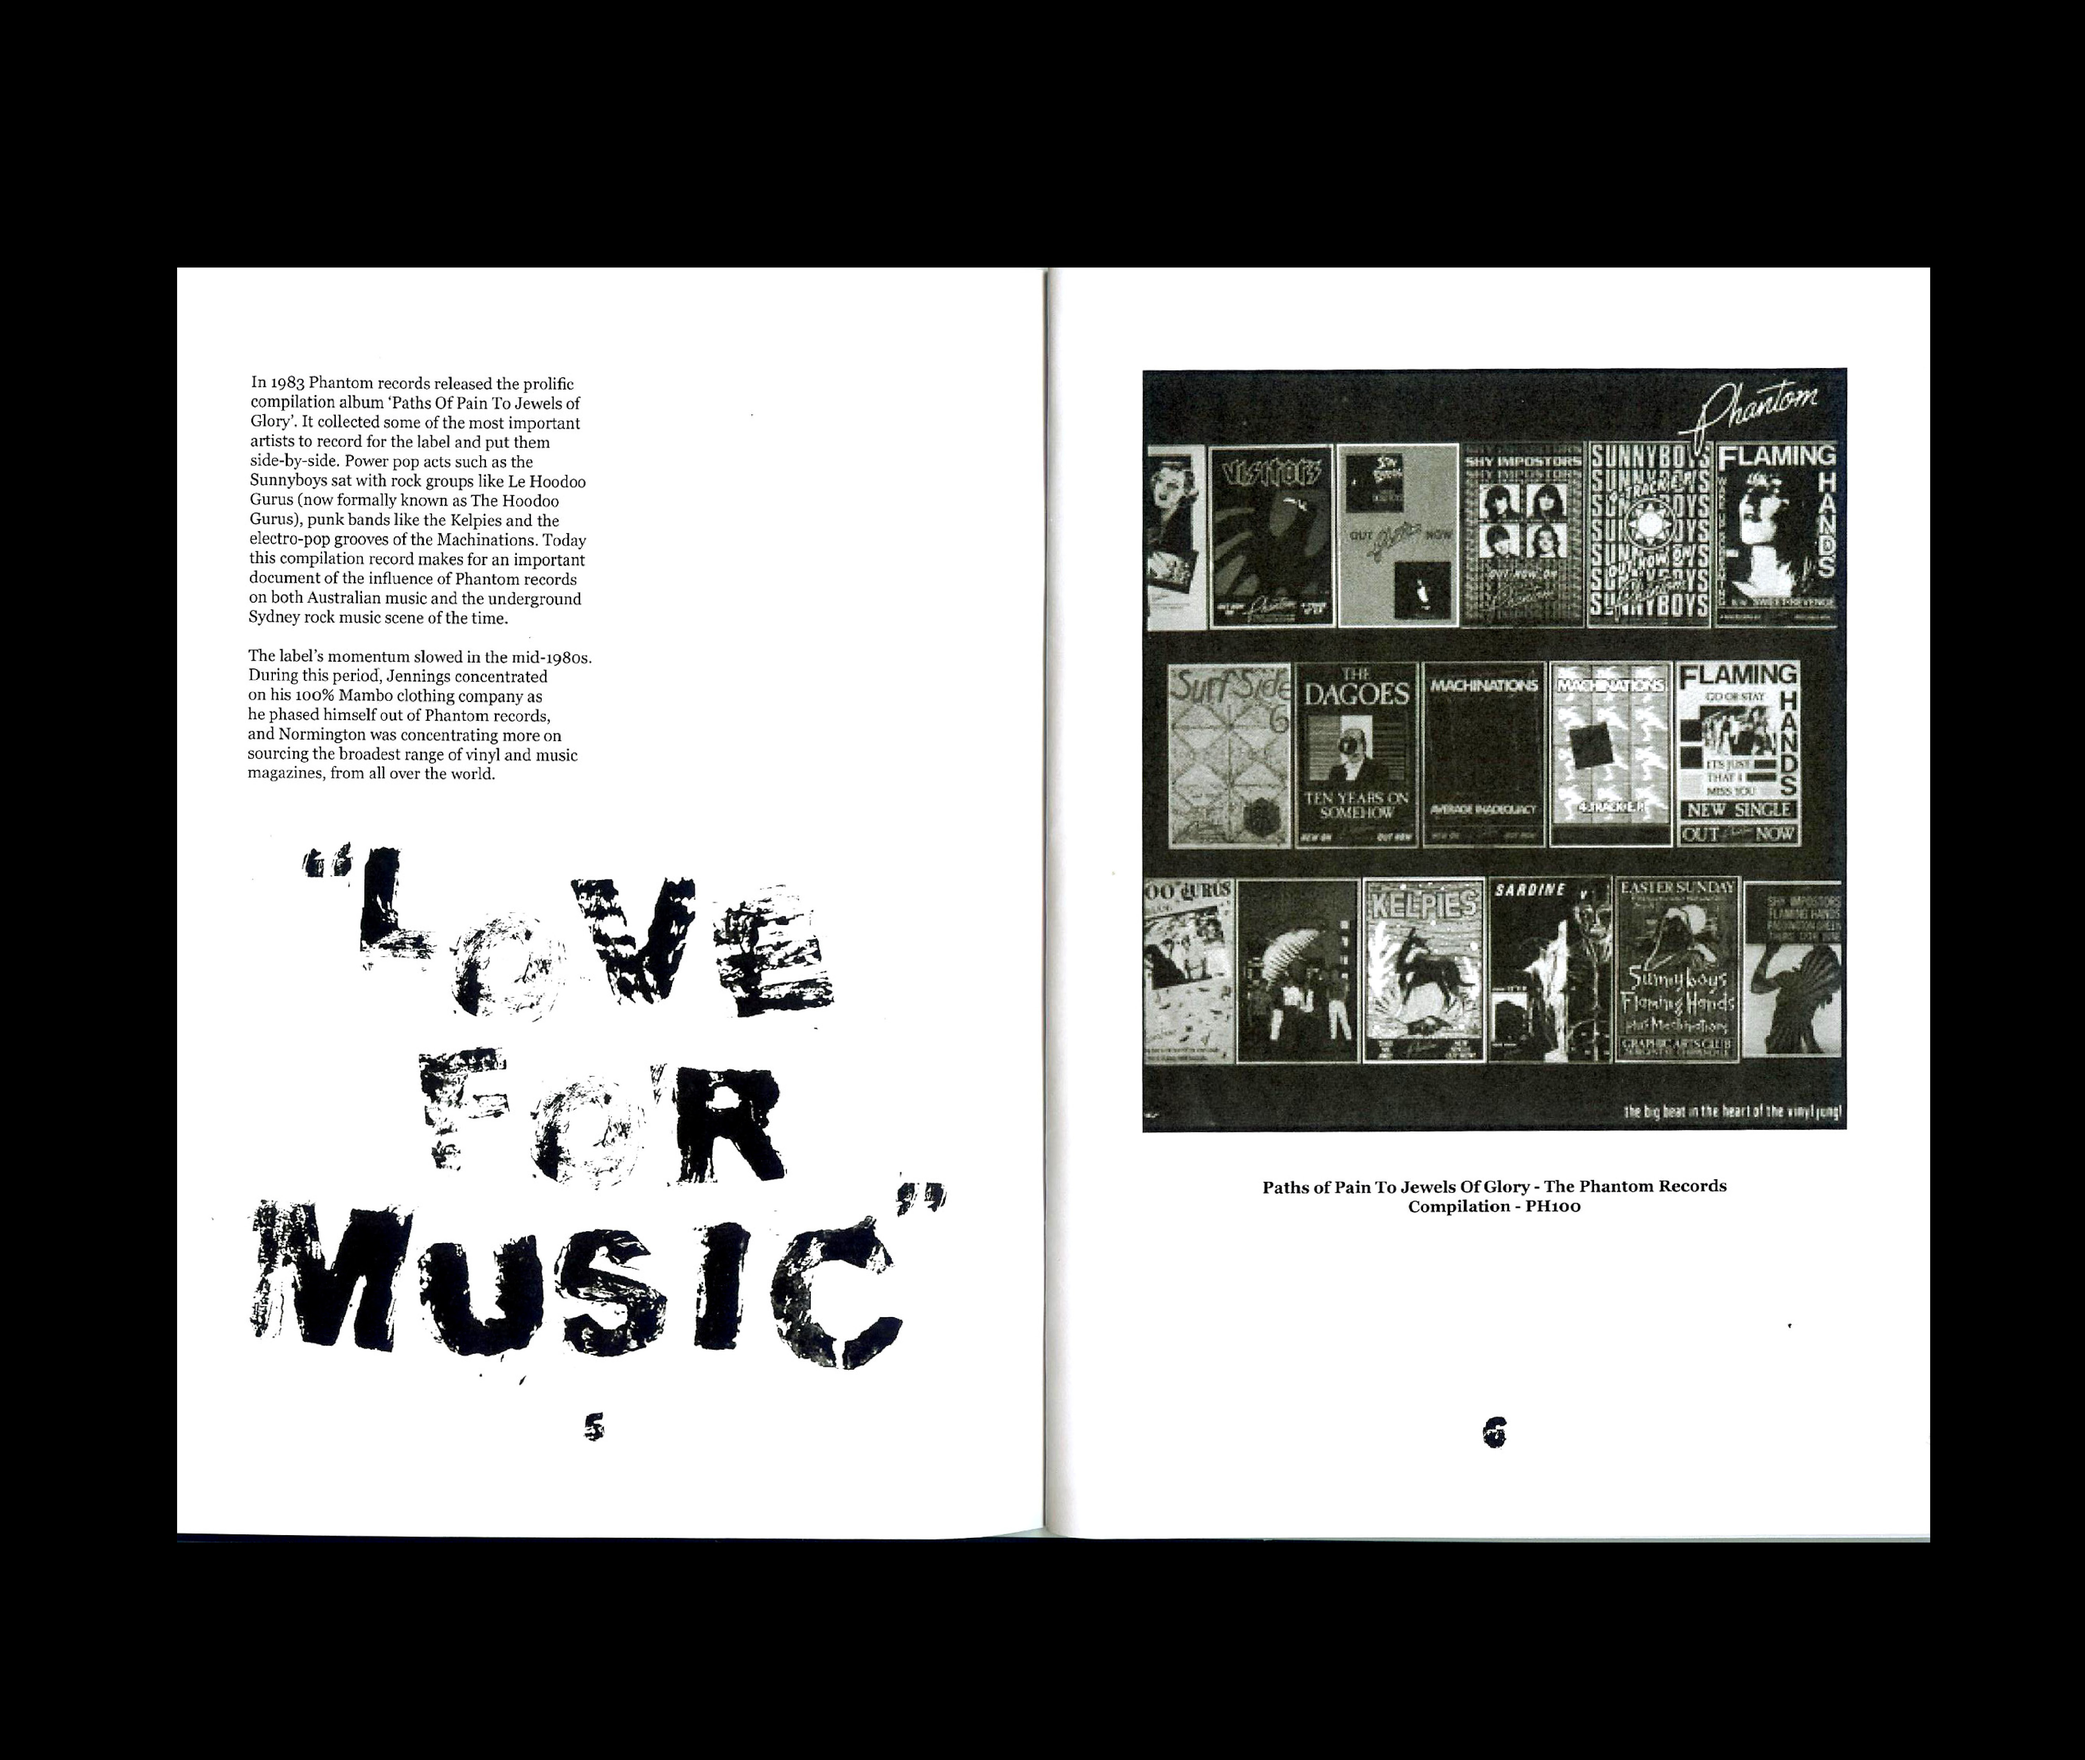
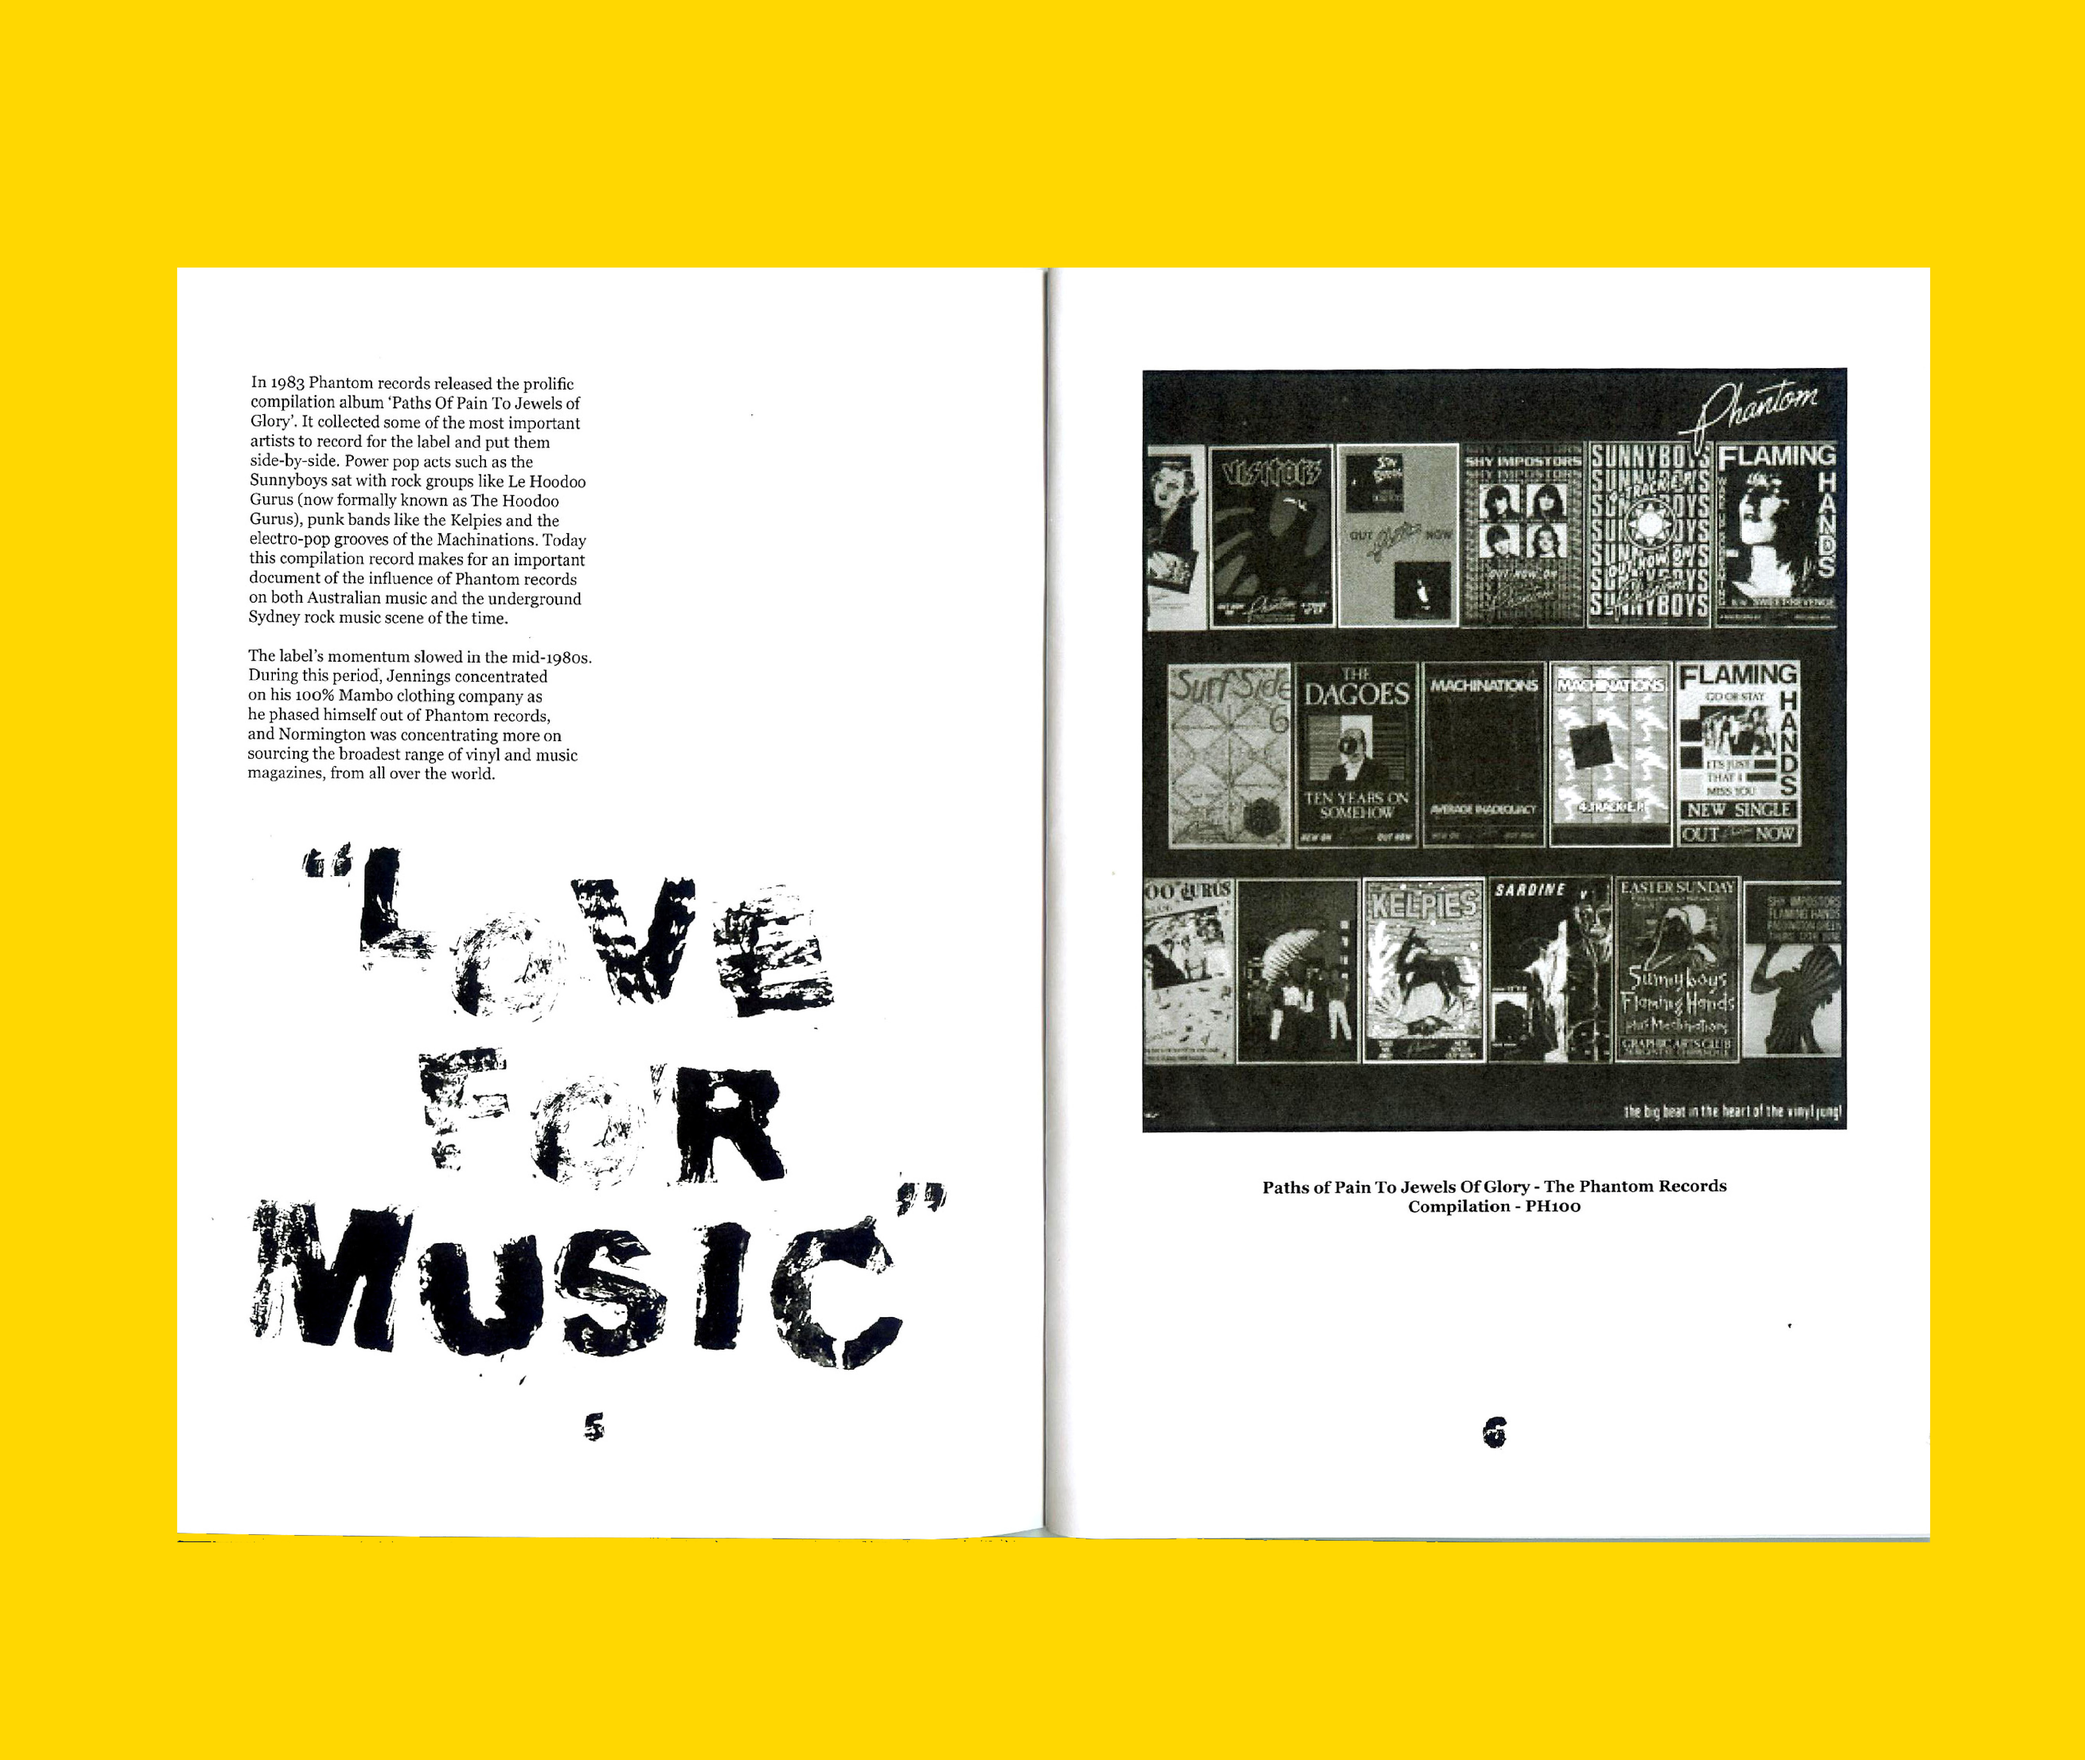
Update index.html

diff --git a/index.html b/index.html
@@ -27,7 +27,7 @@ LIBERATORE <br>
 </div>
 
 <div class = "body">
-Welcome to my design folio, my name is Michael! I am a Monash Communication Design and Business (Marketing) student. I am passionate about print media, publication design, branding design and typography. My portfolio will provide you with an insight into my design skills, thinking and interests.
+Welcome to my design folio, my name is Michael! I am a Monash Communication Design and Business (Marketing) student. I am passionate about print media, publication design, branding and typography. My portfolio will provide you with an insight into my design skills, thinking and interests.
 </div>
 
 <div class = "WORK">
@@ -170,27 +170,6 @@ SPACE ODYSSEY BOOK COVERS <br>
 </div>
 
 <div class = "item Publications">
-<img src="assets/images/figure424.jpg">
-'THE BIG BEAT IN THE HEART OF THE VINYL JUNGLE' <br>
-
-<br> *Supervised by Tristan Ceddia and Rick Milovanovic* <br>
-
-<br> I envisage my outcomes being sold or displayed with some of Phantom Records' potential re-releases in record stores around Australia. I additionally envisage my outcomes being displayed or even sold individually in record stores across Australia. My outcomes will promote the nearly forgotten record label Phantom Records and the music that they signed and supported. <br>
-
-<br>
-</div>
-
-<div class = "item Print">
-<img src="assets/images/figure423.jpg">
-'THE BIG BEAT IN THE HEART OF THE VINYL JUNGLE' <br>
-
-<br> *Supervised by Tristan Ceddia and Rick Milovanovic* <br>
-<br> This project is about unearthing the nearly forgotten Australian record label Phantom Records. I conducted research and some interviews unearthing the record label and its history about its ‘Classic Period’. This period was when the Phantom record store developed into a prolific independent record label. <br>
-
-<br>
-</div>
-
-<div class = "item Publications">
 <img src="assets/images/figure426.jpg">
 'THE BIG BEAT IN THE HEART OF THE VINYL JUNGLE' <br>
 
@@ -202,12 +181,12 @@ SPACE ODYSSEY BOOK COVERS <br>
 </div>
 
 <div class = "item Publications">
-<img src="assets/images/figure425.jpg">
+<img src="assets/images/figure424.jpg">
 'THE BIG BEAT IN THE HEART OF THE VINYL JUNGLE' <br>
 
 <br> *Supervised by Tristan Ceddia and Rick Milovanovic* <br>
 
-<br> I produced all of my experimental typography with black paint and cut out raised letters. I coupled the bold, 'rough around the edges' typography with well set body text in InDesign. As my content was all about underground music and an independent record label, I wanted to pay a homage to its 'Classic Period'. This influenced me to produce my own tangible type-setting process away from my laptop. I took the role of a graphic designer, similar to how graphic design was before the digital era. <br>
+<br> My publication is concerned with unearthing the nearly forgotten record label 'Phantom Records' and the music that they signed and supported. I undertook this project by conducting some preliminary research, conducting some interviews, and type setting my own experimental typography used cut out raised letters and black paint to create a DIY aesthetic to the publication. Reinforcing the aesthetic of the record label. I coupled the bold, 'rough around the edges' typography with well set body text in InDesign. As my content was all about underground music and an independent record label, I wanted to pay a homage to its 'Classic Period'. This influenced me to produce my own tangible type-setting process away from my laptop. I took the role of a graphic designer, similar to how graphic design was before the digital era. <br>
 
 <br>
 </div>
@@ -250,20 +229,20 @@ MAGAZINE FEATURE <br>
 <br>
 </div>
 
-<div class = "item Personal">
-<img src="assets/images/figure43.png">
-LOGO REDESIGN <br>
+<div class = "item Print">
+<img src="assets/images/figure35.jpg">
+DFPR stickers <br>
 
-<br> I redesigned a logo for a small indepedent Melbourne record label called 'Dead Family Pets Records'. The client asked for a clearer and more legibile redesigned logo. I used their existing typography and dog graphic. I revamped the composition and legibility of the logo, while maintaining a strong DIY aesthetic for their social media and for print purposes. This freelance project was a really exciting opportunity for me as a designer, to use both my typography and layout skills coupled with my strong passion and interest in Melbourne's independent music scene. <br>
+<br> My logo redesign for 'Dead Family Pets Records' has been translated into both digital use for the record label's website and social media, as well as for print purposes. This freelance project was a really exciting opportunity for me as a designer, to use both my typography and layout skills coupled with my strong passion and interest in Melbourne's independent music scene.   <br>
 
 <br>
 </div>
 
 <div class = "item Personal">
-<img src="assets/images/figure35.png">
-LOGO DESIGN <br>
+<img src="assets/images/figure43.png">
+LOGO REDESIGN <br>
 
-<br>I designed a logo for a small startup Melbourne based clothing brand called ‘Rodeo Revamp’. This brief was fairly loose and open as the client required a simple and contemporary logo with a strong focus on a western theme. My final design has been used for both their social media and for their clothing. <br>
+<br> I redesigned a logo for a small indepedent Melbourne record label called 'Dead Family Pets Records'. The client asked for a clearer and more legibile redesigned logo. I used their existing typography and dog graphic. I revamped the composition and legibility of the logo, while maintaining a strong DIY aesthetic. <br>
 
 <br>
 </div>
@@ -305,7 +284,16 @@ WHELM THE DAY TO IGNITE THE TWILIGHT SINGLE <br>
 <br>
 </div>
 
-<div class = "item Personal">
+<div class = "item Print">
+<img src="assets/images/figure48.jpg">
+PRIVATE MOUNTAIN SINGLE LAUNCH POSTER <br>
+
+<br> I designed an A3 poster to be printed for Private Mountain's single launch at the Worker's Club. I drew on the VHS aesthetic of the single cover design, using for brand consistency the same VHS typeface for the final design.<br>
+
+<br>
+</div>
+
+<div class = "item Print">
 <img src="assets/images/figure506.jpg">
 FOLEY MAGAZINE EVENT A3 POSTER <br>
 
@@ -317,26 +305,50 @@ FOLEY MAGAZINE EVENT A3 POSTER <br>
 <br>
 </div>
 
-<div class = "item Personal">
-<img src="assets/images/figure504.jpg">
-ZENITH SUBSIDES SINGLE <br>
+<div class = "item Print">
+<img src="assets/images/figure49.png">
+PRIVATE MOUNTAIN STICKER DESIGN <br>
 
-<br>I went for a bold, minimalist aesthetic drawing on the sonics and style of the music. I incorporated elements from the greater EP cover design into my single design for 'Zenith Subsides'.<br>
+<br>I designed a 9mmx5mm sticker design for Private Mountain to use for print purposes. I used the same VHS typeface from the single cover I designed for the band. This sticker design was designed as a part of the band's merchandise.
+<br>
 
 <br>
 </div>
 
 <div class = "item Personal">
-<img src="assets/images/figure505.jpg">
-FOLEY MAGAZINE EVENT HEADER<br>
+<img src="assets/images/figure47.png">
+PRIVATE MOUNTAIN '22' SINGLE COVER DESIGN <br>
 
-<br> I designed a Facebook banner for Foley Magazine’s magazine launch at the Gasometer Hotel. The designs conveyed a psychedelic aesthetic similar to the themes of the magazine that was being launched.<br>
-
-<br> I extracted simple elements from the poster design to create the event header. <br>
+<br>For my internship for Push Records (The Push Inc) I designed a single cover for online streaming services for an upcoming Melbourne based band called Private Mountain. I collaborated with a videographer in the team, who created the glitchy visual to create this minimal design conveying a strong VHS aesthetic. I was responsible for the layout and type-setting of the cover. <br>
 
 <br>
 </div>
+
+<div class = "item Print">
+<img src="assets/images/figure46.png">
+SAGE GREEN AND WHITE TOTE BAG DESIGN <br>
+
+<br>For Private Mountain's merchandise I designed in addition to stickers for the band's merchandise some tote bag designs. The design for the tote bags conveys a clean yet simple design drawing on the band's existing VHS/glitchy aesthetic, translated to a printed tote bag.<br>
+
+The tote bags were printed by Sound Merch.
+
+<br>
+</div>
+
+<div class = "item Print">
+<img src="assets/images/figure45.png">
+Black AND WHITE TOTE BAG DESIGN <br>
+
+<br>For Private Mountain's merchandise I designed in addition to stickers for the band's merchandise some tote bag designs. The design for the tote bags conveys a clean yet simple design drawing on the band's existing VHS/glitchy aesthetic, translated to a printed tote bag.<br>
+
+The tote bags were printed by Sound Merch.
+
+<br>
+</div>
+
 <!-- End container -->
+
+
 <div class = "TESTIMONIAL">
 <br> "Trying to put an image or visual idea to your music can sometimes be challenging and often lead to something that won't feel right and doesn't make sense. Working with Michael couldn't have been easier and through his vision and hard work, I was able to communicate the feel, sonics and story of the project.  He took the time to understand my previous work, the direction of the music and how I could use visual art to complement my work. The level of professionalism that I got from Michael was outstanding I look forward to working with him again on future projects. <br>
 
@@ -351,7 +363,7 @@ FOLEY MAGAZINE EVENT HEADER<br>
 
 
 <div class = "DPUB">
-<a href=https://michaelliberatore.github.io/Digital%20Publishing%20Page/>DIGITAL PUBLISHING PROJECTS</a> 
+<a href=https://michaelliberatore.github.io/Digital%20Publishing%20Page/>DIGITAL PROJECTS</a> 
 </div>
 
   

diff --git a/assets/css/main.css b/assets/css/main.css
@@ -282,9 +282,6 @@ text-align: center;
   background-color: gold;
   }
 
-
-
-
 }
 
 
